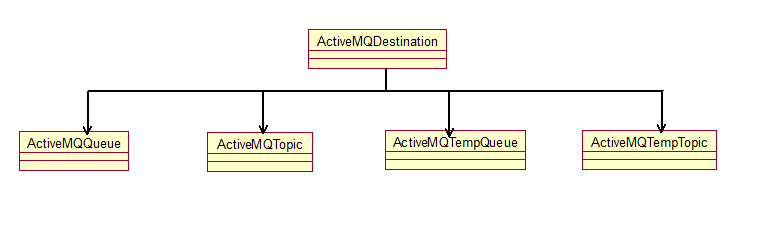
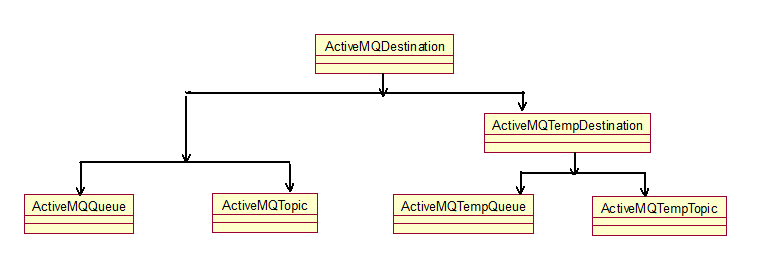
ActiveMQDestination.png

Changed region(s): [[0.0, 0.3249, 0.9675, 0.8565], [0.3745, 0.1181, 0.593, 0.2954]]

diff --git a/_posts/2015-12-12-travel_on_learning_activemq_ActiveMQDestination_hierarchy.md b/_posts/2015-12-12-travel_on_learning_activemq_ActiveMQDestination_hierarchy.md
@@ -1,0 +1,179 @@
+---
+layout: post
+title: LearningActiveMq_ActiveMQDestination
+tags: [activemq_learning]
+---
+
+>Hierarchy benifits 
+
+
+ 
+###Hierarchy of ActiveMQDestion
+   ![](http://xule1991.github.io/images/ActiveMQDestination.png)
+   
+### Base enum variables encapsulated in ActiveMQDestination(super class), and usage in child class:
+
+```
+    public abstract class ActiveMQDestination extends JNDIBaseStorable implements DataStructure, Destination, Externalizable, Comparable<Object> {
+
+    public static final String PATH_SEPERATOR = ".";
+    public static final char COMPOSITE_SEPERATOR = ',';
+
+    public static final byte QUEUE_TYPE = 0x01;
+    public static final byte TOPIC_TYPE = 0x02;
+    public static final byte TEMP_MASK = 0x04;
+    public static final byte TEMP_TOPIC_TYPE = TOPIC_TYPE | TEMP_MASK;
+    //using | to implement containing both conditions in byte enum
+    public static final byte TEMP_QUEUE_TYPE = QUEUE_TYPE | TEMP_MASK;
+
+    public static final String QUEUE_QUALIFIED_PREFIX = "queue://";
+    public static final String TOPIC_QUALIFIED_PREFIX = "topic://";
+    public static final String TEMP_QUEUE_QUALIFED_PREFIX = "temp-queue://";
+    public static final String TEMP_TOPIC_QUALIFED_PREFIX = "temp-topic://";
+    public static final String IS_DLQ = "isDLQ";
+
+    public static final String TEMP_DESTINATION_NAME_PREFIX = "ID:";
+
+    private static final long serialVersionUID = -3885260014960795889L;
+
+    protected String physicalName;
+
+    protected transient ActiveMQDestination[] compositeDestinations;
+    protected transient String[] destinationPaths;
+    protected transient boolean isPattern;
+    protected transient int hashValue;
+    protected Map<String, String> options;
+    }
+...
+ 
+```
+
+####Static method for creating new ActiveMQDestination and its child classes based on two params
+
+```
+ public static ActiveMQDestination createDestination(String name, byte defaultType) {
+        if (name.startsWith(QUEUE_QUALIFIED_PREFIX)) {
+            return new ActiveMQQueue(name.substring(QUEUE_QUALIFIED_PREFIX.length()));
+        } else if (name.startsWith(TOPIC_QUALIFIED_PREFIX)) {
+            return new ActiveMQTopic(name.substring(TOPIC_QUALIFIED_PREFIX.length()));
+        } else if (name.startsWith(TEMP_QUEUE_QUALIFED_PREFIX)) {
+            return new ActiveMQTempQueue(name.substring(TEMP_QUEUE_QUALIFED_PREFIX.length()));
+        } else if (name.startsWith(TEMP_TOPIC_QUALIFED_PREFIX)) {
+            return new ActiveMQTempTopic(name.substring(TEMP_TOPIC_QUALIFED_PREFIX.length()));
+        }
+
+        switch (defaultType) {
+            case QUEUE_TYPE:
+                return new ActiveMQQueue(name);
+            case TOPIC_TYPE:
+                return new ActiveMQTopic(name);
+            case TEMP_QUEUE_TYPE:
+                return new ActiveMQTempQueue(name);
+            case TEMP_TOPIC_TYPE:
+                return new ActiveMQTempTopic(name);
+            default:
+                throw new IllegalArgumentException("Invalid default destination type: " + defaultType);
+        }
+    }
+```
+
+###getDestinationType() is override by its child class then using switch to defined which ActiveMQDestination it is
+
+```
+public abstract byte getDestinationType();
+```
+
+###This method is in ActiveMQDestination and inherited by all its child classes
+
+```
+public String getDestinationTypeAsString() {
+        switch (getDestinationType()) {
+            case QUEUE_TYPE:
+                return "Queue";
+            case TOPIC_TYPE:
+                return "Topic";
+            case TEMP_QUEUE_TYPE:
+                return "TempQueue";
+            case TEMP_TOPIC_TYPE:
+                return "TempTopic";
+            default:
+                throw new IllegalArgumentException("Invalid destination type: " + getDestinationType());
+        }
+    }
+```
+
+
+    
+    Learning travel～
+
+2015-12-12
+
+
+
+
+
+
+
+
+
+
+
+
+
+
+
+
+
+
+
+
+
+
+
+
+
+
+
+
+
+
+
+
+
+
+
+
+
+
+
+
+
+
+
+
+
+
+
+
+
+
+
+
+
+
+
+
+
+
+
+
+
+
+
+
+
+
+
+
+
+
